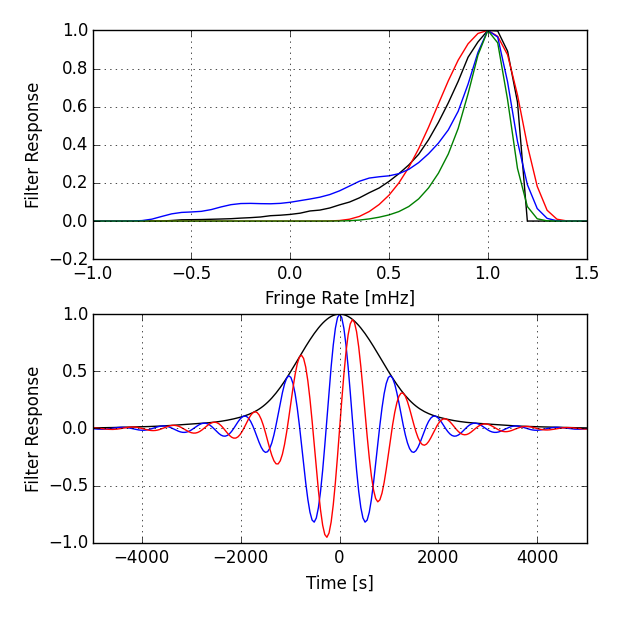
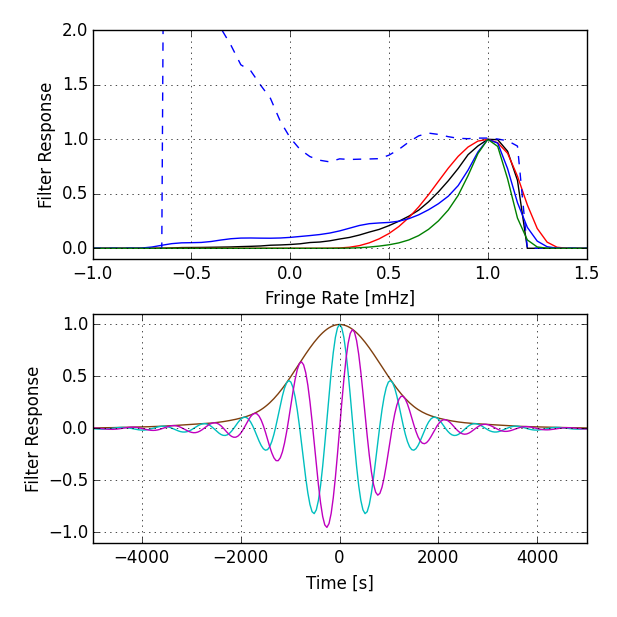
Pass through all except S5.

diff --git a/fringe_filter.tex b/fringe_filter.tex
@@ -265,12 +265,13 @@ for our fiducial baselin (black) is overlaid with
 the simple parametrization for optimal weighting used in (red; \citealt{ali_et_al2015}),
 which excises fringe rates at risk for contamination by crosstalk and smooths the
 weighting profile to provide a compact time-domain convolution kernel.  Also illustrated
-are the weighting for reducing polarization leakage (blue) described in Section \ref{sec:polbeams}, as well
+are the weightings for matching the XX and YY polarization beams (blue dashed) and
+for reducing polarization leakage (blue solid) described in Section \ref{sec:polbeams}, as well
 as a weighting that balances the needs of sensitivity, polarization leakage, crosstalk
 removal, and off-axis foregrounds (green).  Bottom: the time-domain convolution kernel
 corresponding to the red curve in the top panel.  Real and imaginary components are
-illustrated in blue and red, respectively, with the absolute amplitude illustrated
-in black.
+illustrated in cyan and magenta, respectively, with the absolute amplitude illustrated
+in brown.
 }
 \label{fig:fringe_rate_cut}
 \end{figure}
@@ -344,6 +345,7 @@ In Section \ref{sec:Implementation}, we discussed how a fringe-rate filter can b
 In \citet{parsons_et_al2012a} and \citet{P14}, it was shown that estimates of the three-dimensional power spectrum of $21\,\textrm{cm}$ brightness temperature fluctuations could be obtained from a single baseline by Fourier transforming visibility data along the frequency axis (forming a ``delay spectrum"), and then taking the absolute square of the results. Here, we will show how fringe-rate weights can be chosen to maximize the sensitivity of a single-baseline-derived power spectrum.
 
 We begin by considering a generalization of the derivation in \citet{P14}, where it was assumed that the primary beams of all elements in the interferometer are identical. We now consider the possibility of probing the power spectrum via a cross-correlation of two baselines with different primary beams. To be clear, our eventual discussion will be based on the analysis of fringe-rate filtered visibilities from a \emph{single} baseline. However, from Section \ref{sec:overview}, we saw that to a good approximation, selecting different fringe-rates is equivalent to observing the sky with different effective beams. Thus, the cross-correlation of visibilities from two different fringe-rate bins is mathematically identical to cross-correlating two baselines with different beams. To begin, suppose that the $i$th baseline consists of antenna elements with primary beam $A_i (\rhat)$. The delay-transformed visibility takes the form
+% XXX i,j are used as antenna indices here, later fringe-rate indices.  maybe choose different letters?
 \begin{equation}
 \widetilde{V}_i(\mathbf{u},\eta) = \frac{2 k_B}{\lambda^2} \int  d^2 \mathbf{u}^\prime \, d\eta^\prime \widetilde{A}_i (\mathbf{u} -\mathbf{u}^\prime, \eta-\eta^\prime) \widetilde{T}(\mathbf{u}^\prime , \eta^\prime),
 \end{equation}
@@ -447,7 +449,7 @@ where the optimally filtered visibility in the time domain $\widetilde{V}^\textr
 \end{eqnarray}
 This is a rather remarkable result, in that the optimal power spectrum estimator for a single baseline interferometer consists of a squared statistic (i.e., one with no phase information) integrated in time. This may seem counterintuitive, particularly if one is accustomed to more conventional techniques where images are formed from the visibilities and averaged down before any squaring steps. There, it is crucial to average in time \emph{before} squaring, because data from different time steps can be sourced by the same Fourier modes on the celestial sphere. Integrating before squaring allows information from these modes to be coherently averaged together (since phase information has yet to be discarded), resulting in instrumental noise that integrates down as $1/\sqrt{t}$. This then becomes a $1/t$ dependence for the error bars on the final (squared) power spectrum results, and is a much quicker reduction of instrumental noise than if the data had been squared first, which would have resulted in a $1/\sqrt{t}$ dependence on the power spectrum errors.
 
-In our derivation, we showed that the optimal power spectrum estimator can in fact be obtained by squaring before integrating, \emph{provided} the power spectra formed at each time instant are first fringe-rate filtered with weights $ \mu_i^{1/2}$, i.e., where each fringe-rate is weighted by the root-mean-square primary beam within the corresponding constant-fringe-rate contour on the sky. Essentially, the pre-processing step of fringe-rate filtering (with these specific weights) replaces the independent time samples with a set of correlated visibilities that have effectively already been coherently integrated in time. Note that these weights are \emph{not} in general the same as the ones derived in Section \ref{fringeRateIntro} for optimal mapmaking, where measurements were essentially weighted by an additional factor of the primary beam in fringe-rate space, rather than by the root-mean-square beam weighting suggested here. Put another way, to obtain the full power spectrum sensitivity of an interferometer, it is insufficient
+In our derivation, we showed that the optimal power spectrum estimator can in fact be obtained by squaring before integrating, \emph{provided} the power spectra formed at each time instant are first fringe-rate filtered with weights $ \mu_i^{1/2}$, i.e., where each fringe-rate is weighted by the RMS primary beam within the corresponding constant-fringe-rate contour on the sky. Essentially, the pre-processing step of fringe-rate filtering (with these specific weights) replaces the independent time samples with a set of correlated visibilities that have effectively already been coherently integrated in time. Note that these weights are \emph{not} generally the same as the ones derived in Section \ref{fringeRateIntro} for optimal mapmaking, where measurements were essentially weighted by an additional factor of the primary beam in fringe-rate space, rather than by the RMS beam weighting suggested here. Put another way, to obtain the full power spectrum sensitivity of an interferometer, it is insufficient
 to simply square the Fourier amplitudes outputted from a map, even if the mapmaking was optimized to minimize the error bars of the map.  Forming the power spectrum in such a way would be equivalent to restricting $w_{ij}$ to a form separable in $i$ and $j$, which is a restriction that precludes the form for $w_{ij}$ given by Equation \eqref{eq:PspecOptWeights}, which minimizes the error bars of the power spectrum.
 
 Importantly, the result that we have derived here applies only when one is attempting to measure a power spectrum with a single baseline (or multiple baselines with the same baseline vector $\mathbf{b}$). This is a reasonable limit to work in for arrays such as PAPER, where a large fraction of the array's sensitivity comes from instantaneously redundant baselines \citep{parsons_et_al2012a}. For arrays that have less instantaneous redundancy, it becomes more important to combine data from multiple baselines. If multiple baselines are involved, Equation \eqref{eq:finalEst} no longer reduces to a single sum over the time axis. Said differently, it is no longer true that the full sensitivity of an array can be obtained by averaging together time-slice-by-time-slice estimates of the power spectrum estimation from fringe-rate filtered data. Instead, the optimal estimator involves a double sum over time, since with multiple baselines of roughly the same length, it is possible for baselines to rotate into one another. That is, rotation synthesis becomes an important contribution to an interferometer's sensitivity.
@@ -491,7 +493,7 @@ dominated by binning effects associated with determining the effective beam from
 As a final check, we perform simulations assigning flux to pixels on the sky with a Gaussian random distribution
 and simulating the visibilities measured as a function of time for our fiducial baseline.  We compute the
 power spectrum amplitude for this simulated signal and a fringe-rate filtered version according to
-Equation (\ref{eq:P14est}), omitting the primary beam term $\Omega_{\rm PP}$ in both cases.  We then compute
+Equation (\ref{eq:P14est}), omitting the primary beam term $\Omega_{pp}$ in both cases.  We then compute
 the ratio of the unnormalized $P(k)$ measurements before/after fringe-rate filtering and compare 
 this ratio to the change in effective
 beam area associated with the chosen fringe-rate filter.  Dividing the signal loss associated with
@@ -500,7 +502,6 @@ indicating that these ratios are in agreement
 within the sample noise of our simulation. This legitimizes the approach advocated above, where
 Equation \eqref{eq:P14est} can be used for power spectrum estimation provided the effective beam
 squared integral is used instead of the beam squared integral for $\Omega_{pp}$.
-% XXX match Omega_PP throughout text
 
 
 \begin{figure}\centering
@@ -572,7 +573,7 @@ The third column corresponds to the fringe-rate filter applied in \citet{ali_et_
 }\label{fig:pol_match}
 \end{figure*}
 
-In the previous section, we maximized our sensitivity to the power spectrum under the assumption that the measurements were limited by instrumental noise. In practice, however, there may other sources of noise or systematics that may limit our constraints. One example of this is the cross-contamination between Stokes terms in interferometric polarization measurements. Minimizing such contamination is of paramount importance for $21\,\textrm{cm}$ cosmology experiments that rely on
+In the previous section, we maximized our sensitivity to the power spectrum under the assumption that the measurements were limited by instrumental noise. In practice, however, there may other sources of noise or systematics that limit our constraints. One example of this is the cross-contamination between Stokes terms in interferometric polarization measurements. Minimizing such contamination is of importance for $21\,\textrm{cm}$ cosmology experiments that rely on
 the spectral axis to probe the line-of-sight direction at cosmological distances.  For these
 experiments, Faraday rotation combines
 with a spurious coupling between Stokes terms (typically $Q$ to $I$) to produce polarization leakage whose 
@@ -593,7 +594,7 @@ from $\VQ\equiv(\VXX-\VYY)/2$ in directions where the XX and YY beam responses d
 More precisely, suppose the XX polarization product has an antenna power beam of $A_{\rm XX}$, while the YY 
 polarization product has an antenna power beam of $A_{\rm YY}$. The primary beam that we have denoted $A(\rhat)$ 
 in previous sections is given by $(A_{\rm XX} + A_{\rm YY})/2$, which will be labeled as $A^I(\rhat)$ in this section to emphasize
-its meaning as the antenna response to the Stokes I sky. Defining $A^Q(\rhat) \equiv (A_{\rm XX} - A_{\rm YY})/2$, [XXX: factor of 2?] the
+its meaning as the antenna response to the Stokes I sky. Defining $A^Q(\rhat) \equiv (A_{\rm XX} - A_{\rm YY})/2$, the
 Stokes I visibility takes the form (see, e.g., \citealt{moore_et_al2015})
 \begin{eqnarray}
 V_{b\nu}(t)= &&\int d\Omega \, {I_\nu(\rhat) A^I_\nu(\rhat,t) \exp \left[-i2\pi \frac{\nu}{c}  \mathbf{b}(t) \cdot \rhat\right]} + \nonumber \\
@@ -645,15 +646,17 @@ imaging the polarization products.  While this is not as effective at mitigating
 through imaging in the dense sampling case, we will now show that it nonetheless represents a substantial improvement
 over the naive summing of XX and YY visibility measurements.
 
-Suppose for every frequency channel in our observations, we compute the same-mean-square $A_{\rm XX} (\rhat)$ along
+Suppose for every frequency channel in our observations, we compute the RMS $A_{\rm XX} (\rhat)$ along
 the spatial ring corresponding to each fringe-rate bin, using the relation $f \approx \rhat \cdot \mathbf{b}
 \times \boldsymbol \omega_\Earth \nu / c$ derived in Section \ref{sec:overview}. The result is
 a one-dimensional beam profile in fringe-rate space. Repeating the same exercise for $A_{\rm YY}$,
 one can then form the ratio between the two profiles, quantifying the mismatch between the XX and YY
-beams in a one-dimensional projection. This ratio is plotted for PAPER as the blue curve in the
+beams in a one-dimensional projection. This ratio is plotted for PAPER as the blue dashed curve in the
 top panel of Figure \ref{fig:fringe_rate_cut}. If one then uses this curve as a set of fringe-rate weights
-for the $\VYY$, the resulting effective beams will be more closely matched to one another. Note that
-we use the root-mean-square rather than the beam itself because ultimately we seek a measurement
+for the $\VYY$, the resulting effective beams will be more closely matched to one another, as
+shown by the improvement in polarization leakage between the first and second rows in Table
+\ref{tbl:beam_metrics}. Note that
+we use the RMS rather than the beam itself because ultimately we seek a measurement
 of the power spectrum, which is a squared quantity.
 
 In the second column of Figure \ref{fig:pol_match}, we show the effective beam (top row) and the beam
@@ -663,19 +666,19 @@ However, substantial power remains in the mismatched beam $A^Q (\rhat)$ because 
 filtering can only alter beam shapes in a one-dimensional family of fringe-rate rings (as we discussed in
 Section \ref{sec:overview}). A perfect matching would require a set of two-dimensional weights.
 
-Interestingly, one sees that better beam matching can be achieved simply by applying the weights
+Interestingly, one sees that beam matching can be improved simply by applying the weights
 proposed in Section \ref{sec:PspecOptimization} for optimizing power spectrum estimation. These
 were the weights applied in \citet{ali_et_al2015}, and the resulting effective beam and beam mismatch
 are shown in the third column of Figure \ref{fig:pol_match}. The narrowing of the effective beam for
 power spectrum optimization simply downweights parts of the sky that have some of the worst
 beam mismatches, allowing polarization leakage to be reduced without an explicit attempt to do so.
-Of course, one can choose to perform both weightings, first weighting the $\VXX$ and $\VYY$
-visibilities separately to match their respective beam as much as possible, before applying a second fringe-rate weighting to the combined $V_I$ visibility to maximize power spectrum sensitivity.
+Of course, one can choose to perform all of these weightings, first weighting the $\VXX$ and $\VYY$
+visibilities separately to match their respective beam as much as possible, and then applying a second fringe-rate weighting to the combined $V_I$ visibility that balances power spectrum sensitivity and polarization match.
 In the last column of Figure \ref{fig:pol_match} we show the results of such a procedure, and one
 sees that the mismatch (and thus the polarization leakage) is more suppressed than any
 of the other weightings considered so far.
 
-In minimizing polarization leakage, however, one must be careful not to enact an overly aggressive
+In minimizing polarization leakage, one must be careful not to enact an overly aggressive
 scheme that narrows the effective beam to such an extent that there is a substantial loss of
 power spectrum sensitivity. To quantify this trade-off, consider a generalization of Equation
 \eqref{eq:visCrossCorr} to include polarization leakage. Performing a derivation similar to the one
@@ -722,7 +725,9 @@ weighting schemes considered in this section, along with the fractional power sp
 leakage $\Omega^{QQ}_\textrm{eff}/\Omega^{II}_\textrm{eff}$. One sees that, despite a 25\% reduction
 in effective beam area, fringe-rate filtering for optimal sensitivity (the red curve in
 Figure \ref{fig:fringe_rate_cut}) improves the bottom-line
-sensitivity for power spectral measurements by almost a factor of two.  This weighting, which only
+sensitivity for power spectral measurements by almost a factor of two.  This improvement takes
+into account the improvement in sensitivity of each independent power-spectrum sample, but
+also the corresponding decrease in the number of independent modes available.  This weighting, which only
 optimizes for sensitivity, also reduces polarization leakage by a factor of two relative to the
 raw PAPER beam, although a significant fraction of this improvement comes from an intermediate
 separate step: the separate filtering of the XX and YY beams to improve the polarization
@@ -812,13 +817,13 @@ Differentiating this, setting the result to zero, and solving for the normalized
 \label{eq:PolOptWeights}
 \mathbf{g} =  \frac{\mathbf{H}^{-1}  \boldsymbol \mu^I}{ S (\boldsymbol \mu^I)^t  \mathbf{H}^{-1}  \boldsymbol \mu^I}.
 \end{equation}
-This expression involves $\mathbf{H}^{-1}$, which can be evaluated quite explicitly in our case using the
+This expression involves $\mathbf{H}^{-1}$, which can be evaluated explicitly in our case using the
 Woodbury formula, giving
 \begin{equation}
 \label{eq:Hinv}
 \mathbf{H}^{-1} = \sigma^{-4} \left[ \mathbf{I} - \frac{P_Q^2\boldsymbol \mu^Q (\boldsymbol \mu^Q)^t }{P_N^2 + P_Q^2 \boldsymbol \mu^Q \cdot \boldsymbol \mu^Q} \right],
 \end{equation}
-where $P_N$ is the noise power spectrum, which is equal to the root-mean-square visibility
+where $P_N$ is the noise power spectrum, which is equal to the RMS visibility
 noise divided by by $S$. If the sky were completely unpolarized ($P_Q = 0$) or there were no polarization leakage due to mismatched beams ($\boldsymbol \mu^Q = 0$), then $\mathbf{H}^{-1} \propto \mathbf{I}$, and the optimal weighting would take the form
 $\mathbf{g} \propto \boldsymbol \mu^I$. Recalling that each component of a $\boldsymbol \mu$ vector corresponds
 to a different fringe rate, we see that $\mathbf{g} \propto \boldsymbol \mu^I$ is precisely the result derived in Section
@@ -853,12 +858,13 @@ between the two extremes.
 While mathematically optimal, the fringe-rate weighting proposed here is currently difficult
 to put into practice. This is because the $Q$ power spectrum $P_Q$ has yet to be positively
 measured at low frequencies. For example, recent measurements in \citet{moore_et_al2015}
-provide only upper limits on $P_Q$, at least on the moderate to high $k$ scales that are the
-most promising for a first detection of the EoR signal. With only upper limits, it is easy
-to inadvertently employ a weighting that downweights polarization leakage in an overly
-conservative manner, although it is of course welcome news that the polarized foregrounds
-seem to be rather dim. In the future, when the foreground $P_Q$ is positively measured,
-it may be fruitful to employ the projection-like techniques suggested here.
+provide only upper limits on $P_Q$, at least at the $k$-scales that are the
+most promising for a first detection of the 21cm signal.
+%With only upper limits, it is easy
+%to inadvertently employ a weighting that downweights polarization leakage in an overly
+%conservative manner, although it is of course welcome news that the polarized foregrounds
+%seem to be rather dim. In the future, when the foreground $P_Q$ is positively measured,
+%it may be fruitful to employ the projection-like techniques suggested here.
 %
 %Absent a rigorous estimate of $P_Q$, we may turn once again to a more heuristic approach
 %to fringe-rate weighting. Again, we make use of the fact that given a set of weights, the effect
@@ -874,7 +880,6 @@ it may be fruitful to employ the projection-like techniques suggested here.
 %the instrumental noise enters at the visibilities, and therefore are magnified (or diminished) by
 %a factor of $1 / \Omega_{ij}^{II}$ as one forms the power spectrum.
 %
-%XXX: insert numerical simulations here.
 
 
 \subsection{Minimizing Instrumental Systematics and Off-Axis Foregrounds}
@@ -941,7 +946,7 @@ bright Galactic plane emission. In solid red are the contours for the effective 
 the application of a power-spectrum optimized fringe-rate filter (see Section \ref{sec:PspecOptimization}).
 The reduced effective beam size means that less of the Galactic plane contributes to the measured
 power. This can be seen in the bottom panel of Figure \ref{fig:gsm}, where we show the corresponding
-root-mean-square visibilities. The red curve is clearly reduced compared to the black curve, indicating
+RMS visibilities. The red curve is clearly reduced compared to the black curve, indicating
 reduced foreground contamination. If desired, the contamination can be further mitigated by picking
 a different set of fringe-rate weights that downweight the edges of the primary beam even more. However,
 this extra foreground suppression must be carefully balanced with the increase in instrumental noise error
@@ -1112,7 +1117,7 @@ $t$ and $t^\prime$ as
 \label{eq:noiseCovar}
 N_{bb^\prime} (t, t^\prime) = \sigma^2 \delta_{bb^\prime} \delta(t-t^\prime),
 \end{equation}
-where $\sigma$ is an root-mean-square noise level assumed to be uncorrelated in
+where $\sigma$ is an RMS noise level assumed to be uncorrelated in
 time and uncorrelated between baselines.
 
 To see how the optimal prescription of Equation \eqref{optEst} combines
@@ -1242,7 +1247,7 @@ Equation \eqref{fringeVis} and making the substitution $\psi \equiv
 \overline{V}_{b\nu} && (f_n)= \int d\Omega \, T(\rhat) B_\delta (\delta) e^{-i 2 \pi  \frac{b_y}{\lambda} \cos \eta \sin \delta} \nonumber \\
 && \times \sum_q \frac{\overline{B}_q e^{-i n \varphi}}{2 \pi} \int_{-\pi -\varphi}^{\pi+\varphi} d\psi \, e^{i (q-n) \psi +i \frac{2 \pi b_0}{\lambda} \cos \delta \sin \psi}. \qquad
 \end{eqnarray}
-Now, note that the integral over $\psi$ is of a periodic function over one
+Now, the integral over $\psi$ is of a periodic function over one
 period.  We may therefore freely shift the limits of the integral by a constant
 amount without affecting the result.  In particular, we may remove the
 $+\varphi$ terms in the limits (the only restriction being that having performed a $\varphi$-dependent shift, it is no longer legal to permute the various integrals), and
@@ -1321,19 +1326,19 @@ for $\mathbf{A}$ from the remaining integral, and proceed as before.
 In this paper, we have revisited the concept of filtering the visibility time-series
 measured by an interferometric baseline that was presented in \citet{parsons_backer2009}.
 Using a mapping between the timescale of variation in visibility data and position
-on the sky for a chosen baseline, we show that the rectangular time windows typically
+on the sky for a chosen baseline, we have seen that the rectangular time windows typically
 used when integrating visibilities are almost always sub-optimal, and motivate 
 filtering on the basis of fringe rate
-as step for optimally combining time-ordered visibility data.  In Section \ref{sec:Mapmaking}, we show 
+as step for optimally combining time-ordered visibility data.  In Section \ref{sec:Mapmaking}, we found
 that fringe-rate filtering naturally arises as part of optimized mapmaking prescriptions such as those
 described in \citet{T97mapmaking}, \citet{morales_matejek2009}, or \citet{dillon_et_al2015}.
 
-We also show that fringe-rate filtering can alternately be interpreted as a per-baseline
+We also showed that fringe-rate filtering can alternately be interpreted as a per-baseline
 operation for sculpting the primary beam along one dimension.
 Using analytic
 derivations and simulations, we highlight several important applications of such beam
 sculpting.  One key application for 21cm cosmological experiments starved for sensitivity
-is the ability to re-weight visibility data according to the SNR in each fringe-rate bin.
+is the ability to re-weight visibility data according to the signal-to-noise ratio in each fringe-rate bin.
 As shown in Section \ref{sec:PspecOptimization}, pre-processing the visibilities in such a way
 allows an optimal (minimum variance) estimate of the power spectrum to be formed by
 squaring visibilities time-slice-by-time-slice before averaging the results together. This
@@ -1347,7 +1352,7 @@ avoid many analysis-induced systematics associated with gridding data on the $uv
 %of several % 
 %while avoiding many of the systematics associated with gridding data in the $uv$ plane.
 %Crucially, this 
-Other important application include improving the match between polarization beam to
+Other important applications include improving the match between polarization beam to
 reduce polarization leakage, and down-weighting areas low in the primary beam
 to reduce systematics from off-axis foregrounds.
 
@@ -1364,8 +1369,8 @@ the Square Kilometre Array (SKA; \citealt{carilli2014}).
 \section{Acknowledgments}
 
 It gives us great pleasure to thank James Aguirre, Gianni Bernardi, Daniel Jacobs, David Moore, 
-Miguel Morales, and Jonathan Pober for helpful discussions.  This research
-was supported by the National Science Foundation, award \#1129258.
+Miguel Morales, and Jonathan Pober for helpful discussions.  
+This research was supported in part by the NSF CAREER award No. 1352519 and the NSF AST grant No. 1129258.
 
 % ---------------------------------------------------------------------
 % ---------------------------------------------------------------------

diff --git a/plots/plot_fringe_rate_cut.py b/plots/plot_fringe_rate_cut.py
@@ -26,7 +26,8 @@ hXX, bin_edges = n.histogram(fng, bins=bin_edges, weights=bmXX*bmXX)
 hXY, bin_edges = n.histogram(fng, bins=bin_edges, weights=bmXX*bmYY)
 hYY, bin_edges = n.histogram(fng, bins=bin_edges, weights=bmYY*bmYY)
 bins = 0.5 * (bin_edges[:-1] + bin_edges[1:])
-polmatch = n.where(hYY > 0, hXY / hYY, 0)
+#polmatch = n.where(hYY > 0, hXY / hYY, 0)
+polmatch = n.where(hYY > 0, n.sqrt(hXX / hYY), 0)
 polmatch = scipy.interpolate.interp1d(bins, polmatch, kind='linear', bounds_error=False, fill_value=0)
 hXX = n.sqrt(hXX)
 hXY = n.sqrt(hXY)
@@ -66,18 +67,21 @@ fig.subplots_adjust(left=.15, top=.95, bottom=.12, wspace=.15, hspace=.24, right
 p.subplot(211)
 p.plot(1e3*bins,frf,'k')
 p.plot(1e3*bins,wgt_bins,'r')
+p.plot(1e3*bins,polmatch(bins),'b--')
 p.plot(1e3*bins,wgt_pol_bins,'b')
 p.plot(1e3*bins,wgt_both_bins,'g')
 p.grid()
+p.ylim(-0.1,2.)
 p.xlim(-1,1.5)
 p.xlabel('Fringe Rate [mHz]')
 p.ylabel('Filter Response')
 
 firs[0] /= n.abs(firs[0]).max()
 p.subplot(212)
-p.plot(tbins, n.abs(firs[0]), 'k')
-p.plot(tbins, n.real(firs[0]), 'b')
-p.plot(tbins, n.imag(firs[0]), 'r')
+p.plot(tbins, n.abs(firs[0]), '#7f3f0e')
+p.plot(tbins, n.real(firs[0]), 'c')
+p.plot(tbins, n.imag(firs[0]), 'm')
+p.ylim(-1.1,1.1)
 p.xlim(-5000,5000)
 p.xlabel('Time [s]')
 p.ylabel('Filter Response')
